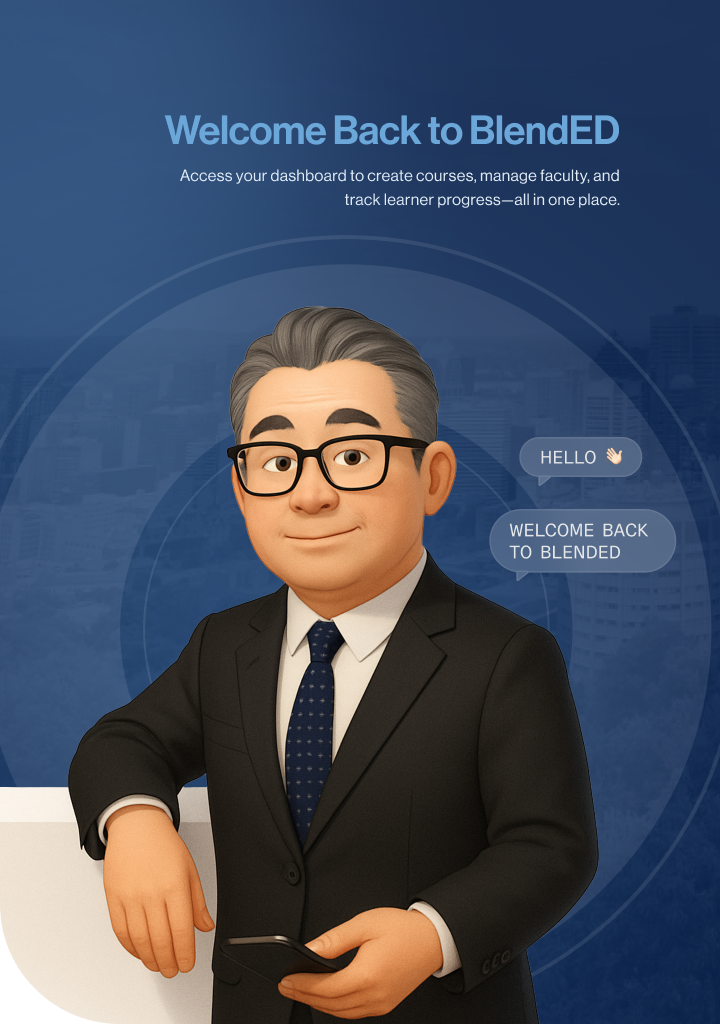
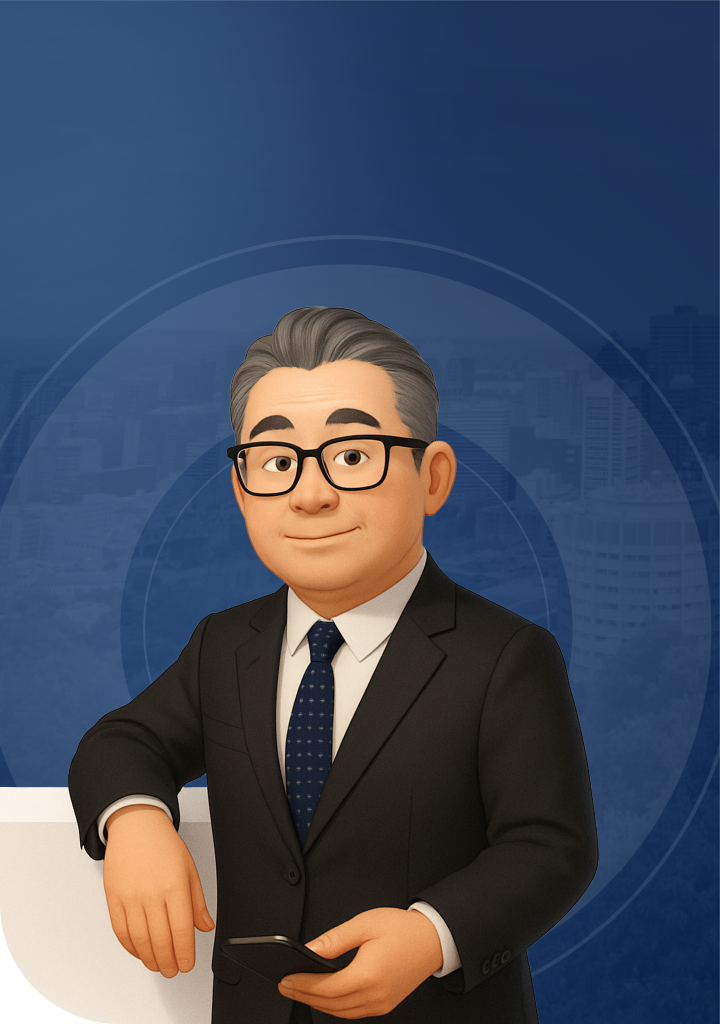
improve: done ui improvements

Changed region(s): [[0.2139, 0.0938, 0.8556, 0.2188], [0.6722, 0.4062, 0.9472, 0.5625]]

diff --git a/src/components/pages/AdminLogin/ImageSection.jsx b/src/components/pages/AdminLogin/ImageSection.jsx
@@ -1,14 +1,62 @@
 import PropTypes from 'prop-types';
 
-function ImageSection({ imageSrc, altText = 'Login' }) {
+
+function ChatBubble({ text }) {
   return (
-    <img src={imageSrc} alt={altText} className='w-full h-full object-cover' />
+    <div className='bg-blended-blue_8/20 backdrop-blur-sm rounded-2xl px-4 py-2 border border-white/30 shadow-lg relative'>
+      <p className='text-blended-gray_7 text-sm lg:text-base font-medium'>
+        {text}
+      </p>
+      <div className='absolute bottom-0 left-4 w-0 h-0 border-r-[14px] border-t-[14px] border-l-0 border-l-transparent border-r-transparent border-t-blended-blue_8/20  transform translate-y-full'></div>
+    </div>
+  );
+}
+function ImageSection({ 
+  imageSrc, 
+  altText = 'Login',
+  title = '',
+  subtitle = '',
+  titleClass = 'text-left',
+  subtitleClass = 'text-left',
+}) {
+  return (
+    <div className='w-full h-full relative'>
+      <img
+        src={imageSrc}
+        alt={altText}
+        className='w-full h-full object-cover lg:object-fill'
+      />
+      
+      {/* Text Overlay */}
+      <div className='absolute top-0 left-0 right-0 bg-gradient-to-b from-blue-900/80 to-blue-900/40 p-8 lg:p-12'>
+        <div className={`max-w-[29rem] mx-auto flex flex-col`}>
+          <h1 className={`text-blended-blue_3 text-2xl lg:text-3xl font-semibold mb-4 ${titleClass}`}>
+            {title}
+          </h1>
+          <p className={`text-white/90 text-sm lg:text-[13px] font-light ${subtitleClass}`}>
+            {subtitle}
+          </p>
+        </div>
+      </div>
+
+      {/* Chat Bubbles */}
+      <div className="absolute top-[40%] right-[4%] max-w-[185px] flex flex-col items-center justify-center space-y-6">
+        {/* Hello Bubble */}
+        <ChatBubble text="HELLO 👋🏻" />
+
+        {/* Welcome to Blended Bubble */}
+        <ChatBubble text="WELCOME BACK TO BLENDED" />
+      </div>
+    </div>
   );
 }
 
 ImageSection.propTypes = {
   imageSrc: PropTypes.string.isRequired,
   altText: PropTypes.string,
+  title: PropTypes.string,
+  subtitle: PropTypes.string,
+  alignment: PropTypes.string,
 };
 
 export default ImageSection;

diff --git a/src/components/pages/AdminLogin/AdminLoginLayout.jsx b/src/components/pages/AdminLogin/AdminLoginLayout.jsx
@@ -1,22 +1,28 @@
 import PropTypes from 'prop-types';
 import LoginFormSection from './LoginFormSection.jsx';
 import ImageSection from './ImageSection';
-import adminLoginFrame from '@/assets/images/svg/admin_login_frame.svg';
+import adminLoginFrame from '@/assets/images/svg/admin_login_frame.png';
 
 function AdminLoginLayout({
-  children,
   imageSrc = adminLoginFrame,
   altText = 'Admin Login',
   formComponent: FormComponent = LoginFormSection,
 }) {
   return (
-    <div className='min-h-screen flex'>
+    <div className='min-h-screen flex flex-col lg:flex-row'>
       {/* Left Column - Login Form */}
-      <FormComponent />
+      <div className='flex-1 w-full flex flex-col h-screen lg:h-screen relative'>
+        <FormComponent />
+      </div>
 
       {/* Right Column - Image */}
-      <div className='flex-1 bg-blended-gray_4'>
-        <ImageSection imageSrc={imageSrc} altText={altText} />
+      <div className='flex-1 bg-blended-gray_4 h-64 lg:h-screen lg:w-auto'>
+        <ImageSection
+          imageSrc={imageSrc}
+          altText={altText}
+          title='Welcome Back to BlendED'
+          subtitle='Access your dashboard to create courses, manage faculty, and track learner progress—all in one place.'
+        />
       </div>
     </div>
   );

diff --git a/src/components/pages/AdminLogin/LoginFormSection.jsx b/src/components/pages/AdminLogin/LoginFormSection.jsx
@@ -4,25 +4,21 @@ import InputField from '@/components/common/FormFields/InputField';
 import Button from '@/components/common/FormFields/Button';
 import logo from '@/assets/images/svg/BlendedED_Logo_blue.svg';
 import ToggleTab from '@/components/common/Navigation/ToggleTab';
+import LRFHeaderSection from '../LRF/Login/LRFHeaderSection';
 
 function LoginFormSection() {
   const [activeTab, setActiveTab] = useState('login');
 
   return (
     <div className='flex-1 w-full flex flex-col h-screen relative'>
-      {/* Top Section - Logo (20% height) */}
-      <div className='h-[20%] flex items-center justify-center bg-blended-white_2/30'>
-        <div className='text-center'>
-          <img src={logo} alt='BlendED' className='h-12 mx-auto' />
-        </div>
-      </div>
+      {/* Top Section - Logo */}
+      <LRFHeaderSection />
 
       {/* Tab Switcher - Absolutely positioned between sections */}
       <div className='absolute top-[20%] left-1/2 transform -translate-x-1/2 -translate-y-1/2 z-10 shadow-lg rounded-full'>
         <ToggleTab
           options={[
             { label: 'LOGIN', value: 'login' },
-            { label: 'SIGNUP', value: 'signup' },
           ]}
           activeOption={activeTab}
           onOptionChange={setActiveTab}

diff --git a/vite.config.js b/vite.config.js
@@ -1,12 +1,15 @@
 import path from 'path';
-import { defineConfig } from 'vite';
+import { defineConfig, loadEnv } from 'vite';
 import react from '@vitejs/plugin-react';
 
-export default defineConfig({
+export default defineConfig(({ mode }) => {
+  const env = loadEnv(mode, process.cwd(), '');
+  
+  return {
   plugins: [react()],
   server: {
-    host: '0.0.0.0',
-    port: 3000,
+    host: env.HOST || '0.0.0.0',
+    port: parseInt(env.VITE_PORT || '3000', 10),
     allowedHosts: ['*'],
     hmr: {
       overlay: false,
@@ -21,4 +24,5 @@ export default defineConfig({
   resolve: {
     alias: [{ find: '@', replacement: path.resolve(__dirname, 'src') }],
   },
+  };
 });

diff --git a/src/components/pages/LRF/Login/LRFHeaderSection.jsx b/src/components/pages/LRF/Login/LRFHeaderSection.jsx
@@ -1,0 +1,13 @@
+import logo from '@/assets/images/svg/BlendedED_Logo_blue.svg';
+
+function LRFHeaderSection() {
+  return (
+    <div className='h-16 lg:h-[20%] flex items-center justify-center bg-blended-white_2/30'>
+      <div className='text-center'>
+        <img src={logo} alt='BlendED' className='h-8 lg:h-12 mx-auto' />
+      </div>
+    </div>
+  );
+}
+
+export default LRFHeaderSection;

diff --git a/tailwind.config.js b/tailwind.config.js
@@ -48,6 +48,7 @@ export default {
           blue_5: '#D5E5F3',
           blue_6: '#050B17',
           blue_7: '#071F4A',
+          blue_8: '#E6E9ED',
           gray_1: '#B4B6B9',
           gray_2: '#E5E7EB',
           gray_3: '#9CA3AF',
